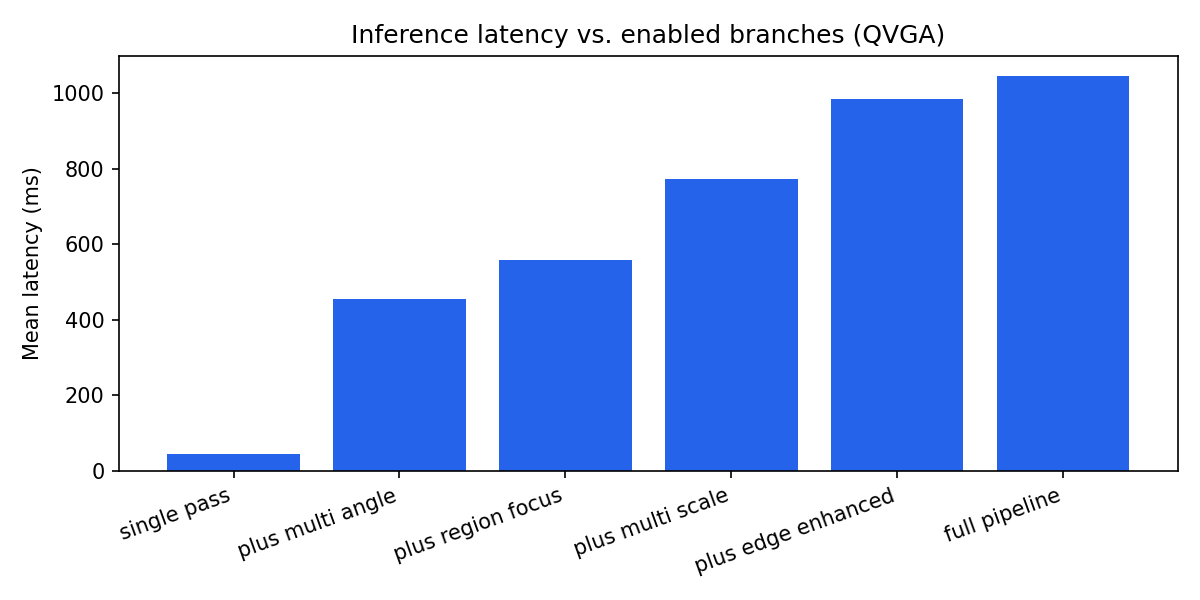
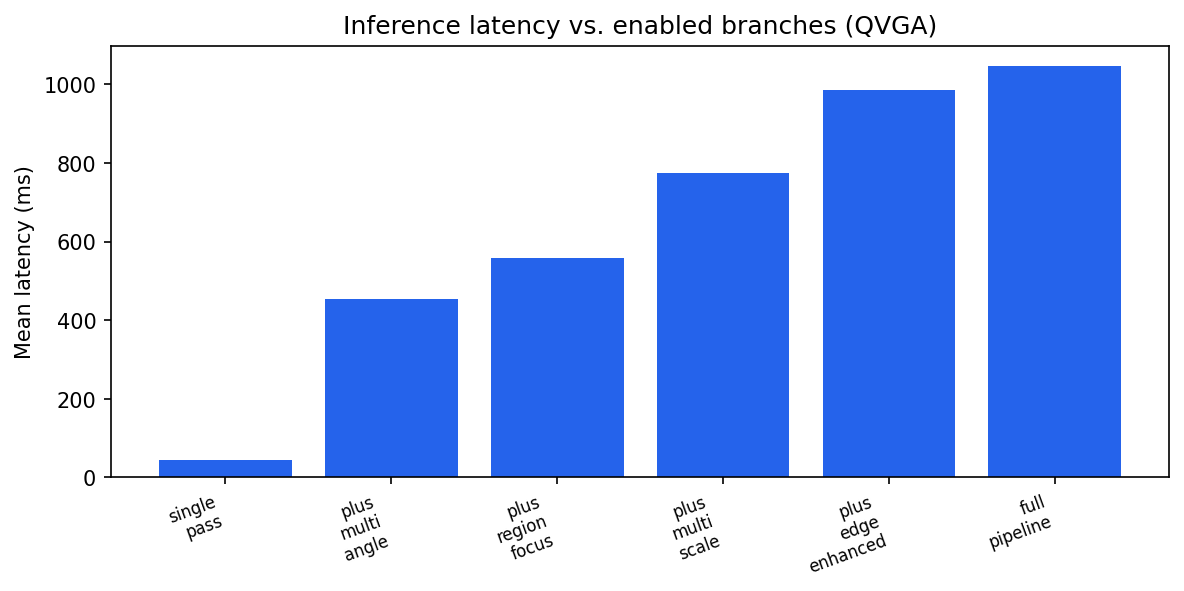
Fix overlapping labels on PR ablation scatter plot.
Use a legend and latency colorbar instead of per-point annotations.
Add plot_utils helper and regenerate demo/paper figures.

diff --git a/droneai/experiments/plot_utils.py b/droneai/experiments/plot_utils.py
@@ -1,0 +1,91 @@
+"""Shared matplotlib helpers for experiment figures."""
+
+from __future__ import annotations
+
+from typing import List, Sequence, Tuple
+
+import matplotlib.pyplot as plt
+import numpy as np
+from matplotlib.cm import ScalarMappable
+from matplotlib.colors import Normalize
+from matplotlib.lines import Line2D
+
+
+def format_config_label(name: str) -> str:
+    """Human-readable short label for ablation config keys."""
+    return (
+        name.replace("single_pass", "single pass")
+        .replace("plus_", "+ ")
+        .replace("_", " ")
+    )
+
+
+def plot_pr_ablation(
+    ax,
+    names: Sequence[str],
+    recall: Sequence[float],
+    precision: Sequence[float],
+    latency_ms: Sequence[float],
+    *,
+    title: str,
+    xlabel: str = "Recall (IoU=0.5, full test split)",
+    cmap: str = "viridis",
+) -> None:
+    """
+    Precision--recall scatter with color = latency and legend (no overlapping point labels).
+    """
+    rec = np.asarray(recall, dtype=float)
+    prec = np.asarray(precision, dtype=float)
+    lat = np.asarray(latency_ms, dtype=float)
+    labels = [format_config_label(n) for n in names]
+
+    norm = Normalize(vmin=float(lat.min()), vmax=float(lat.max()))
+    sm = ScalarMappable(cmap=cmap, norm=norm)
+    sm.set_array([])
+
+    sizes = 80 + 40 * (lat - lat.min()) / (lat.max() - lat.min() + 1e-6)
+    colors = sm.to_rgba(lat)
+
+    ax.scatter(
+        rec,
+        prec,
+        s=sizes,
+        c=colors,
+        edgecolors="#334155",
+        linewidths=0.6,
+        zorder=3,
+    )
+
+    handles = [
+        Line2D(
+            [0],
+            [0],
+            marker="o",
+            color="w",
+            markerfacecolor=colors[i],
+            markeredgecolor="#334155",
+            markeredgewidth=0.6,
+            markersize=7,
+            label=labels[i],
+        )
+        for i in range(len(names))
+    ]
+    ax.legend(
+        handles=handles,
+        loc="upper right",
+        fontsize=6.5,
+        framealpha=0.95,
+        borderpad=0.4,
+        labelspacing=0.35,
+        handletextpad=0.5,
+    )
+
+    cbar = plt.colorbar(sm, ax=ax, fraction=0.046, pad=0.04)
+    cbar.set_label("Latency (ms)", fontsize=8)
+
+    ax.set_xlabel(xlabel, fontsize=9)
+    ax.set_ylabel("Precision", fontsize=9)
+    ax.set_title(title, fontsize=10)
+    ax.grid(True, alpha=0.3, linestyle="--")
+    ax.set_xlim(max(0.0, rec.min() - 0.04), min(1.0, rec.max() + 0.04))
+    ax.set_ylim(max(0.0, prec.min() - 0.08), min(1.02, prec.max() + 0.03))

diff --git a/droneai/experiments/generate_paper_figures.py b/droneai/experiments/generate_paper_figures.py
@@ -1,0 +1,75 @@
+#!/usr/bin/env python3
+"""Regenerate ablation figures from experiments/results/ablation_results.json."""
+
+from __future__ import annotations
+
+import json
+from pathlib import Path
+
+import matplotlib.pyplot as plt
+
+from plot_utils import plot_pr_ablation
+
+ROOT = Path(__file__).resolve().parent
+RESULTS = ROOT / "results" / "ablation_results.json"
+FIG_DIR = ROOT / "results" / "figures"
+PAPER_FIG = Path(__file__).resolve().parents[2] / "figures"
+DOCS_DEMO = Path(__file__).resolve().parents[2] / "docs" / "demo"
+
+
+def main() -> int:
+    if not RESULTS.exists():
+        print(f"Missing {RESULTS}; run run_full_labs.py first.")
+        return 1
+
+    data = json.loads(RESULTS.read_text(encoding="utf-8"))
+    rows = data["results"]
+    n_img = data.get("test_image_count") or data.get("eval_image_count") or "?"
+    FIG_DIR.mkdir(parents=True, exist_ok=True)
+    PAPER_FIG.mkdir(parents=True, exist_ok=True)
+    DOCS_DEMO.mkdir(parents=True, exist_ok=True)
+
+    labels = [r["config"] for r in rows]
+    recall = [r["recall"] for r in rows]
+    precision = [r["precision"] for r in rows]
+    latency = [r["latency_mean_ms"] for r in rows]
+
+    fig, ax = plt.subplots(figsize=(7.2, 5.2))
+    plot_pr_ablation(
+        ax,
+        labels,
+        recall,
+        precision,
+        latency,
+        title="STRIX pipeline ablation (fine-tuned weights)",
+        xlabel=f"Recall (IoU=0.5, {n_img}-image test subset)",
+    )
+    fig.tight_layout()
+    for dest in (
+        FIG_DIR / "ablation_pr_scatter.png",
+        PAPER_FIG / "ablation_pr_scatter.png",
+        DOCS_DEMO / "ablation_pr_scatter.png",
+    ):
+        fig.savefig(dest, dpi=150, bbox_inches="tight")
+    plt.close(fig)
+
+    fig2, ax2 = plt.subplots(figsize=(8, 4))
+    ax2.bar([l.replace("_", "\n") for l in labels], latency, color="#2563eb")
+    ax2.set_ylabel("Mean latency (ms)")
+    ax2.set_title("Inference latency vs. enabled branches (QVGA)")
+    plt.xticks(rotation=20, ha="right", fontsize=8)
+    fig2.tight_layout()
+    for dest in (
+        FIG_DIR / "ablation_latency.png",
+        PAPER_FIG / "ablation_latency.png",
+        DOCS_DEMO / "ablation_latency.png",
+    ):
+        fig2.savefig(dest, dpi=150, bbox_inches="tight")
+    plt.close(fig2)
+
+    print(f"Saved figures to {FIG_DIR}, {PAPER_FIG}, and {DOCS_DEMO}")
+    return 0
+
+
+if __name__ == "__main__":
+    raise SystemExit(main())

diff --git a/droneai/experiments/run_full_labs.py b/droneai/experiments/run_full_labs.py
@@ -19,6 +19,8 @@ import numpy as np
 import yaml
 
 ROOT = Path(__file__).resolve().parents[1]
+EXPERIMENTS = Path(__file__).resolve().parent
+sys.path.insert(0, str(EXPERIMENTS))
 sys.path.insert(0, str(ROOT))
 os.chdir(ROOT)
 
@@ -192,14 +194,18 @@ def plot_all_figures(ablation_rows: list, yolo_test: Optional[dict]) -> None:
         fig.savefig(dest, dpi=150)
     plt.close(fig)
 
-    fig2, ax2 = plt.subplots(figsize=(7, 5))
-    ax2.scatter(rec, prec, s=120, c=lat, cmap="viridis")
-    for i, n in enumerate(names):
-        ax2.annotate(n.replace("_", " "), (rec[i], prec[i]), fontsize=7, xytext=(4, 4), textcoords="offset points")
-    ax2.set_xlabel("Recall (full test, IoU=0.5)")
-    ax2.set_ylabel("Precision")
-    ax2.set_title("Precision--recall trade-off (385 images)")
-    ax2.grid(True, alpha=0.3)
+    from plot_utils import plot_pr_ablation
+
+    fig2, ax2 = plt.subplots(figsize=(7.2, 5.2))
+    plot_pr_ablation(
+        ax2,
+        names,
+        rec,
+        prec,
+        lat,
+        title="Precision--recall trade-off (385 images)",
+        xlabel="Recall (full test, IoU=0.5)",
+    )
     fig2.tight_layout()
     for dest in (FIGURES_DIR / "full_ablation_pr_scatter.png", PAPER_FIG / "ablation_pr_scatter.png"):
         fig2.savefig(dest, dpi=150)
